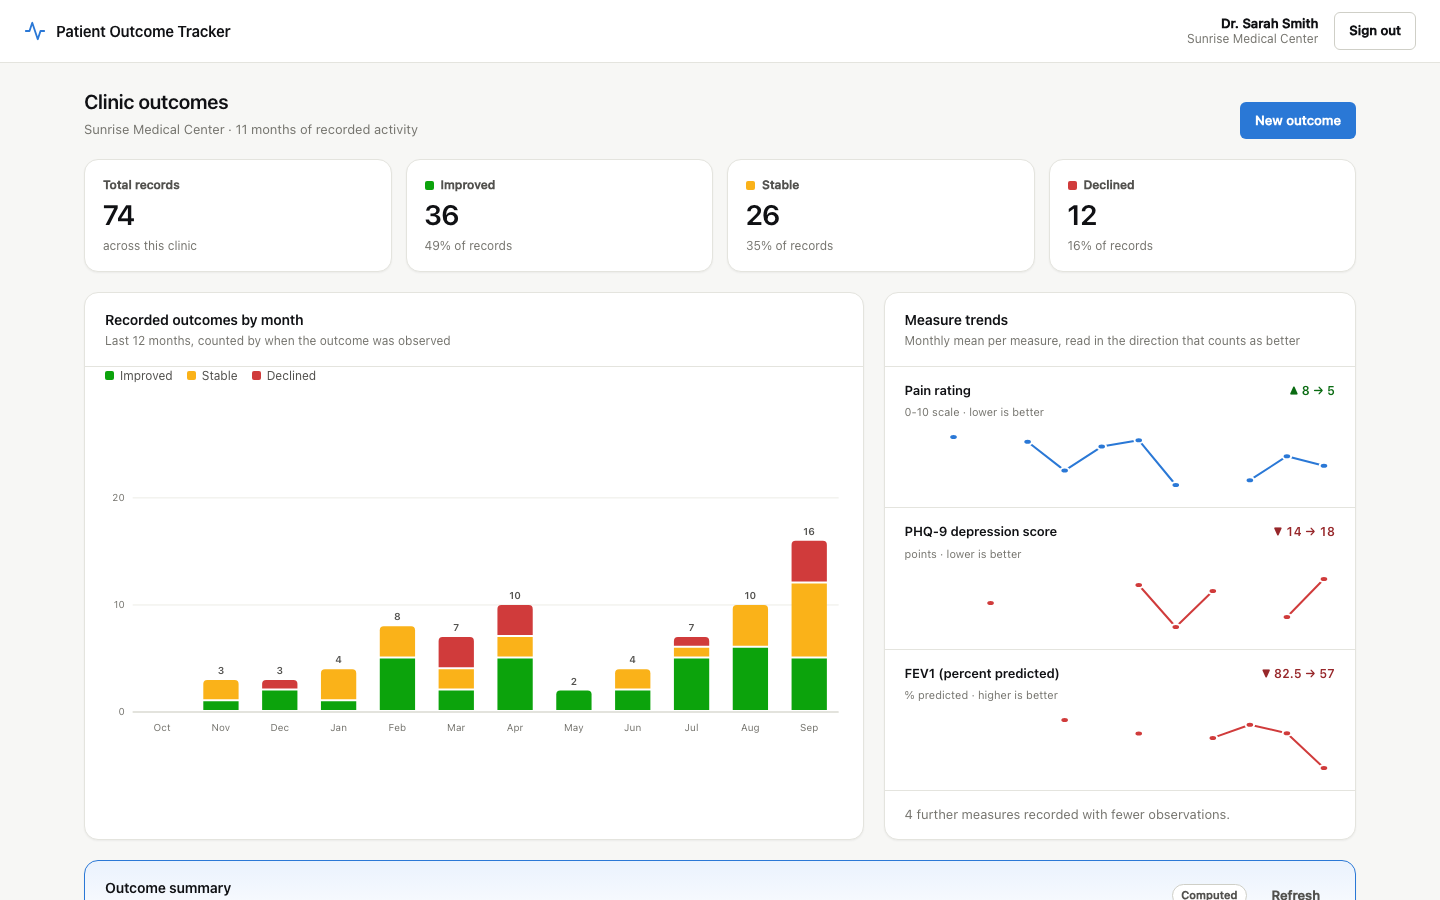
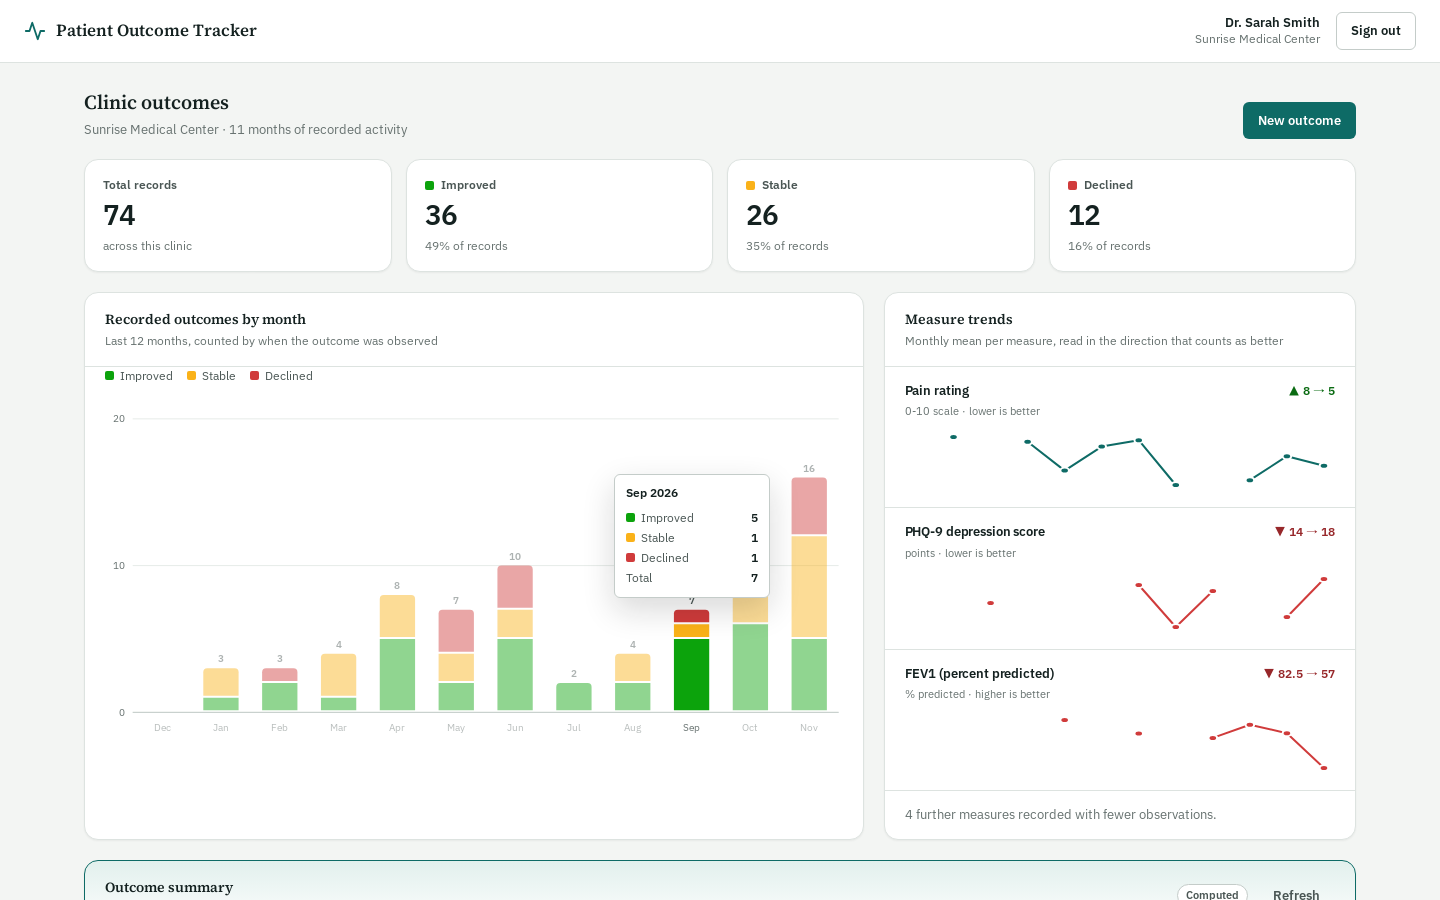
Document throttling, calendar trends and captured API exchanges

diff --git a/README.md b/README.md
@@ -17,17 +17,20 @@ docker compose up --build        # then open http://localhost:8330
 ```
 
 Compose starts MongoDB, runs the two seed jobs in order, then brings up the three services and the
-nginx-served SPA. `docker compose down -v` removes the stack and its data. Every seeded account uses
-`password123`:
+nginx-served SPA. `docker compose down -v` removes the stack and its data. No `.env` is needed; copy
+`.env.example` to `.env` only to change a default. Every seeded account uses `password123`:
 
 | Clinic | Accounts | Seeded records |
 | --- | --- | --- |
 | Sunrise Medical Center | `dr.smith`, `nurse.jones` | 74 |
 | Bayview Family Clinic | `dr.chen`, `admin.lee` | 61 |
 
-Sign in as `dr.smith`, then as `dr.chen`: two different databases, two different dashboards.
+Sign in as `dr.smith`, then as `dr.chen`: two different databases, two different dashboards. The layout
+holds down to phone width:
 
-Without Docker you need a MongoDB server and, for both backend services, `MONGODB_REGISTRY_URI`,
+<img src="docs/screenshots/06-mobile-dashboard.png" alt="Bayview's dashboard on a phone: stat tiles two to a row above the monthly chart" width="260" />
+
+Without Docker you need Node 22 (`.nvmrc`), a MongoDB server and, for both backend services, `MONGODB_REGISTRY_URI`,
 `MONGODB_BASE_URI` (server URI with no database name) and the same `JWT_SECRET`. The gateway needs
 `AUTH_SERVICE_URL` and `OUTCOME_SERVICE_URL`. Then `npm run install:all`, `npm run seed`, and
 one `npm run dev:<name>` per process: `gateway` (:4000), `auth` (:4001), `outcome` (:4002), `frontend` (:5173).
@@ -36,7 +39,7 @@ one `npm run dev:<name>` per process: `gateway` (:4000), `auth` (:4001), `outcom
 
 ```mermaid
 flowchart LR
-    B["Browser<br/>React SPA :8330"] --> G["api-gateway :8331<br/>proxy only"]
+    B["Browser<br/>React SPA :8330"] --> G["api-gateway :8331<br/>proxy, login throttle"]
     G -->|"/api/auth/*"| A["auth-service :8332"]
     G -->|"/api/outcomes/*"| O["outcome-service :8333"]
     A --> R[("registry DB<br/>clinics, username routing")]
@@ -129,13 +132,27 @@ the briefing itself, and the UI shows it behind a disclosure next to a decision-
 
 ![Outcome summary with the briefing it was written from expanded](docs/screenshots/02-outcome-summary.png)
 
-![Diagnosis cohorts with small groups folded, above records filtered to declined](docs/screenshots/03-cohorts-and-records.png)
+![Diagnosis cohorts, with the three records of a small group folded into Other (grouped)](docs/screenshots/03-cohorts.png)
 
 Errors follow the same rule: Mongoose validation errors embed the submitted document, so only `HttpError`
 subclasses reach the client with their own message and everything else is a flat 500. Logs carry an error's
 name and message, never the request body. The charts are hand-written SVG (React is the only runtime
 dependency of the frontend), and outcome counts and measure means are drawn on separate plots so nobody reads
 a correlation into a shared axis.
+
+**Sign-in is throttled where the client is visible.** The auth service only ever sees the gateway's
+address, so the gateway limits `POST /api/auth/login` to `LOGIN_RATE_LIMIT` attempts per client per
+`LOGIN_RATE_WINDOW_MS` (10 per 15 minutes) and answers 429 with `Retry-After`. The counter lives in
+gateway memory, which is right for one gateway and wrong for several; a shared store is the next step
+there. Behind the limiter, an unknown username still costs a bcrypt compare against a decoy hash, so
+response time does not reveal which usernames exist.
+
+**Trends are calendar months.** The monthly chart and the measure means bucket by `recordedAt`, the date
+the outcome was observed, not when it was typed in. The query window runs from the first day of the
+oldest month to the start of next month, so there are exactly as many bars as months asked for. The API
+refuses a `recordedAt` more than a day ahead, and the form offers an "Observed on" date capped at today.
+
+![Monthly outcome counts with the November tooltip open, beside the measure trends](docs/screenshots/04-trend-detail.png)
 
 ## API
 
@@ -144,11 +161,11 @@ All routes go through the gateway. Authenticated routes take `Authorization: Bea
 
 | Method | Path | Auth | Notes |
 | --- | --- | --- | --- |
-| `POST` | `/api/auth/login` | none | `{ username, password }` returns `{ token, user }`; 403 for a deactivated clinic |
+| `POST` | `/api/auth/login` | none | `{ username, password }` returns `{ token, user }`; 403 for a deactivated clinic; 429 when throttled |
 | `GET` | `/api/auth/clinics` | none | Names and ids for the login screen, never database names |
 | `GET` | `/api/auth/verify` | Bearer | Re-resolves the token's user and clinic |
 | `GET` | `/api/outcomes` | Bearer | Newest first; `page`, `limit` (clamped to 100), `outcome` |
-| `POST` | `/api/outcomes` | Bearer | `clinicId` and `createdBy` come from the token |
+| `POST` | `/api/outcomes` | Bearer | `clinicId` and `createdBy` come from the token; `recordedAt` optional, not in the future |
 | `GET` | `/api/outcomes/stats` | Bearer | Count per outcome plus total |
 | `GET` | `/api/outcomes/trends` | Bearer | Monthly counts and measure means; `months` default 12, max 60 |
 | `GET` | `/api/outcomes/cohorts` | Bearer | Split by diagnosis with small-cell suppression |
@@ -157,12 +174,57 @@ All routes go through the gateway. Authenticated routes take `Authorization: Bea
 
 Records are append-only: there is no update or delete route. Each service also exposes `GET /health`.
 
+These exchanges were captured against the compose stack (token shortened):
+
+```http
+POST /api/auth/login
+{"username": "dr.smith", "password": "password123"}
+
+200 {"success": true, "message": "Login successful",
+     "data": {"token": "eyJhbG...1ra4",
+              "user": {"id": "6aef4b19d07c4ac9addd3be3", "username": "dr.smith",
+                       "fullName": "Dr. Sarah Smith", "role": "doctor",
+                       "clinicName": "Sunrise Medical Center"}}}
+```
+
+```http
+GET /api/outcomes/stats
+Authorization: Bearer <token>
+
+200 {"success": true, "data": {"improved": 36, "stable": 26, "declined": 12, "total": 74}}
+```
+
+```http
+GET /api/outcomes?outcome=declined&limit=1
+
+200 {"success": true, "data": {
+      "outcomes": [{"_id": "6aef4b1a94b76ffae3a20fea", "clinicId": "clinic-sunrise",
+                    "patientName": "Demo Patient Juniper 2", "age": 58, "diagnosis": "COPD",
+                    "treatment": "Inhaled bronchodilator with pulmonary rehabilitation",
+                    "outcome": "declined", "measures": {"walk_6min": 153},
+                    "createdBy": "nurse.jones", ...}],
+      "pagination": {"total": 12, "page": 1, "limit": 1, "pages": 12}}}
+```
+
+```http
+POST /api/outcomes
+{"patientName": "Demo Patient Test", "diagnosis": "Asthma", "treatment": "Inhaler review",
+ "outcome": "improved", "recordedAt": "2031-01-01"}
+
+400 {"success": false, "message": "Validation failed",
+     "errors": [{"field": "recordedAt", "message": "recordedAt cannot be in the future"}]}
+```
+
+Eleven wrong passwords in a row from one address: the first ten get `401`, the eleventh `429`.
+
+![Records filtered to declined, newest observation first](docs/screenshots/07-records-declined.png)
+
 ## Testing
 
 ```bash
 npm run install:all
-npm test            # 192 tests in 13 suites (auth 53, outcome 139)
-npm run lint        # backend; npm run lint:frontend for the SPA
+npm test            # 224 tests: auth 57, outcome 150, gateway 6 (Jest), frontend 11 (Vitest)
+npm run lint:all    # backend services, then the SPA
 ```
 
 Jest and supertest drive each service's HTTP surface against a real MongoDB started in-process by
@@ -171,15 +233,22 @@ to a model provider: the AI client is injected and the suites pass a stub. `tena
 an empty filter still returns one clinic's rows and that a filter naming another clinic throws;
 `outcomes.access.test.js` covers the same ground end to end, including a token with no `clinicId` claim.
 `connectionPool.test.js` runs in both services and covers eviction and failed handshakes.
+`trendWindow.test.js` pins the calendar-month window with a fixed clock, and `listingIndex.test.js` reads
+the query plan to prove the record list is sorted from an index. The gateway suite runs against stub
+upstreams and covers routing, the 502 path and the login limiter. The SPA's Vitest suite covers the
+formatting helpers and the API client with `fetch` stubbed.
+
+![New-outcome form with a measure selected and the observation date field](docs/screenshots/05-new-outcome.png)
 
 ## Limitations and roadmap
 
-- Rate limiting on `POST /api/auth/login`, which is currently unthrottled.
+- A shared store for the login limiter if the gateway is ever run as more than one instance.
 - Refresh tokens and per-user revocation. Today only clinic deactivation revokes access.
 - An audit log of record reads and writes, which real PHI handling requires.
 - Role enforcement. Tokens carry a role, but every user in a clinic can read and write every record.
 - Replication for the registry, which is a single point of failure.
-- A frontend test suite (currently lint and a production build).
+- Component tests for the SPA (the Vitest suite covers helpers and the API client only), and keyboard
+  access to the chart tooltips, which are mouse-only today.
 - Live coverage of the Anthropic path, which so far is tested only through the injected client.
 - A shared package for the connection pool, duplicated across the two services.
 
